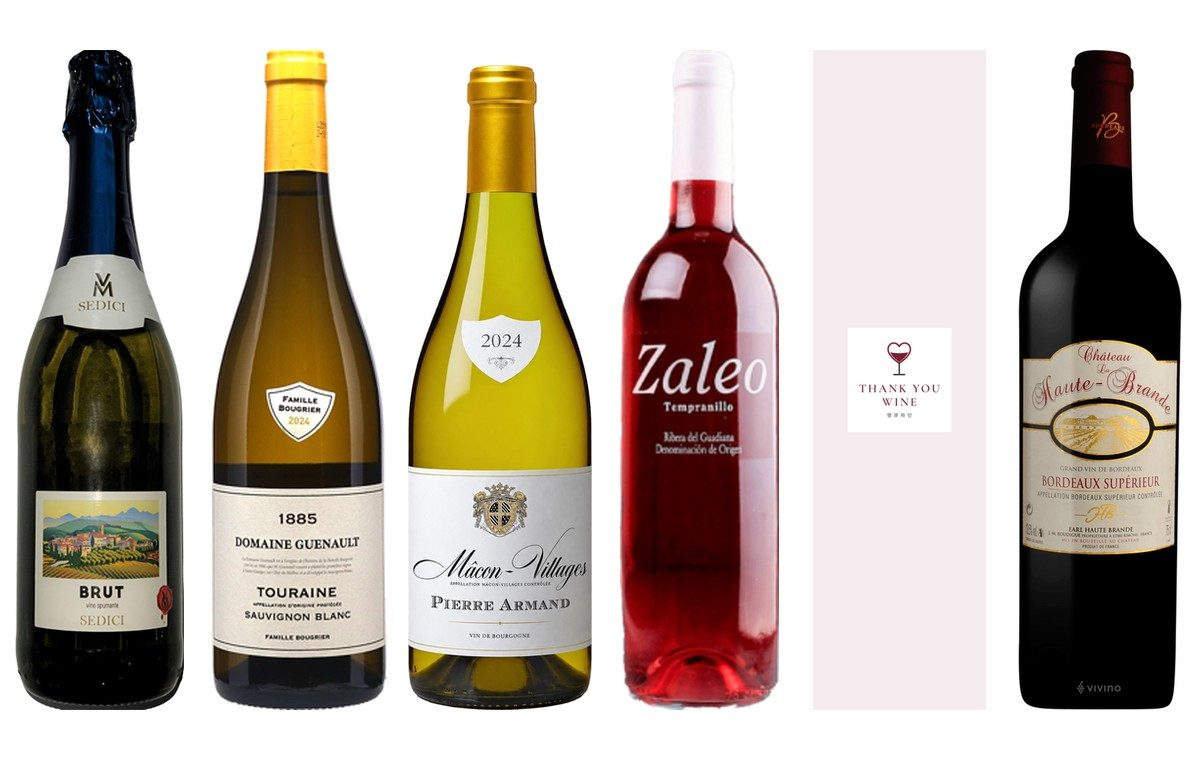
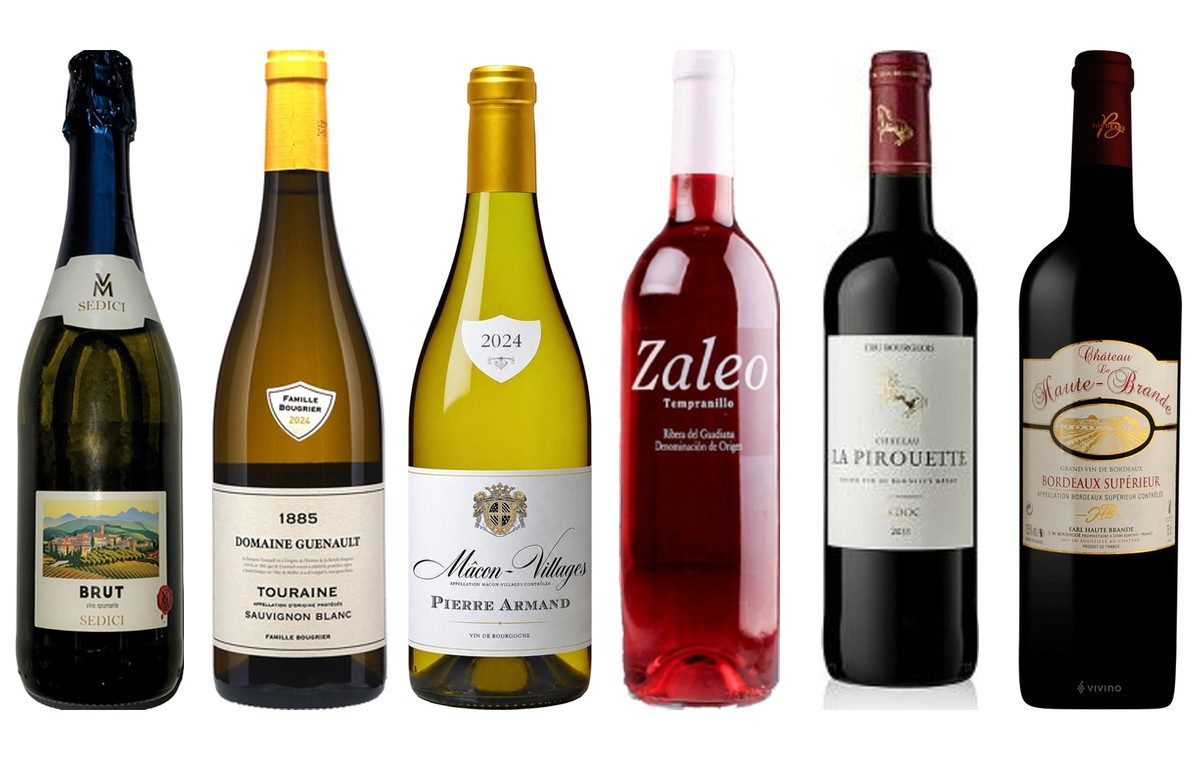
홈파티 글 B안 사진에 샤또 라 피루엣뜨 병 사진 반영(도하 제공)
Claude-Session: https://claude.ai/code/session_012cU88SjGkvo9NbM7C9uoQJ

diff --git a/wines/index.html b/wines/index.html
@@ -68,7 +68,7 @@
     <div class="wfind" role="search">
       <label class="wsearch"><span class="sr">와인 검색</span><input id="wq" type="search" placeholder="와인 이름, 품종, 지역으로 찾기 (예: 피노 누아, 보르도, Chablis)" autocomplete="off"></label>
       <div class="wsel">
-        <label><span class="sr">나라</span><select id="wcountry"><option value="">모든 나라</option><option value="프랑스">프랑스</option><option value="이탈리아">이탈리아</option><option value="스페인">스페인</option><option value="포르투갈">포르투갈</option><option value="칠레">칠레</option><option value="미국">미국</option><option value="독일">독일</option><option value="호주">호주</option><option value="뉴질랜드">뉴질랜드</option><option value="아르헨티나">아르헨티나</option><option value="몰도바">몰도바</option><option value="오스트리아">오스트리아</option><option value="헝가리">헝가리</option><option value="남아공">남아공</option><option value="조지아">조지아</option><option value="그리스">그리스</option></select></label>
+        <label><span class="sr">나라</span><select id="wcountry"><option value="">모든 나라</option><option value="프랑스">프랑스</option><option value="이탈리아">이탈리아</option><option value="스페인">스페인</option><option value="포르투갈">포르투갈</option><option value="칠레">칠레</option><option value="미국">미국</option><option value="독일">독일</option><option value="호주">호주</option><option value="뉴질랜드">뉴질랜드</option><option value="아르헨티나">아르헨티나</option><option value="몰도바">몰도바</option><option value="헝가리">헝가리</option><option value="오스트리아">오스트리아</option><option value="남아공">남아공</option><option value="조지아">조지아</option><option value="그리스">그리스</option></select></label>
         <label class="wnow"><input id="wnow" type="checkbox"> 지금 매장에 있는 와인만</label>
       </div>
       <div class="chips" id="wchips" role="group" aria-label="스타일"><button class="chip" type="button" data-style="" aria-pressed="true">전체</button><button class="chip" type="button" data-style="레드" aria-pressed="false">레드</button><button class="chip" type="button" data-style="화이트" aria-pressed="false">화이트</button><button class="chip" type="button" data-style="로제" aria-pressed="false">로제</button><button class="chip" type="button" data-style="스파클링" aria-pressed="false">스파클링</button><button class="chip" type="button" data-style="스위트" aria-pressed="false">스위트</button><button class="chip" type="button" data-style="포트·셰리" aria-pressed="false">포트·셰리</button><button class="chip" type="button" data-style="무알콜" aria-pressed="false">무알콜</button><button class="chip" type="button" data-style="기타" aria-pressed="false">기타</button></div>
